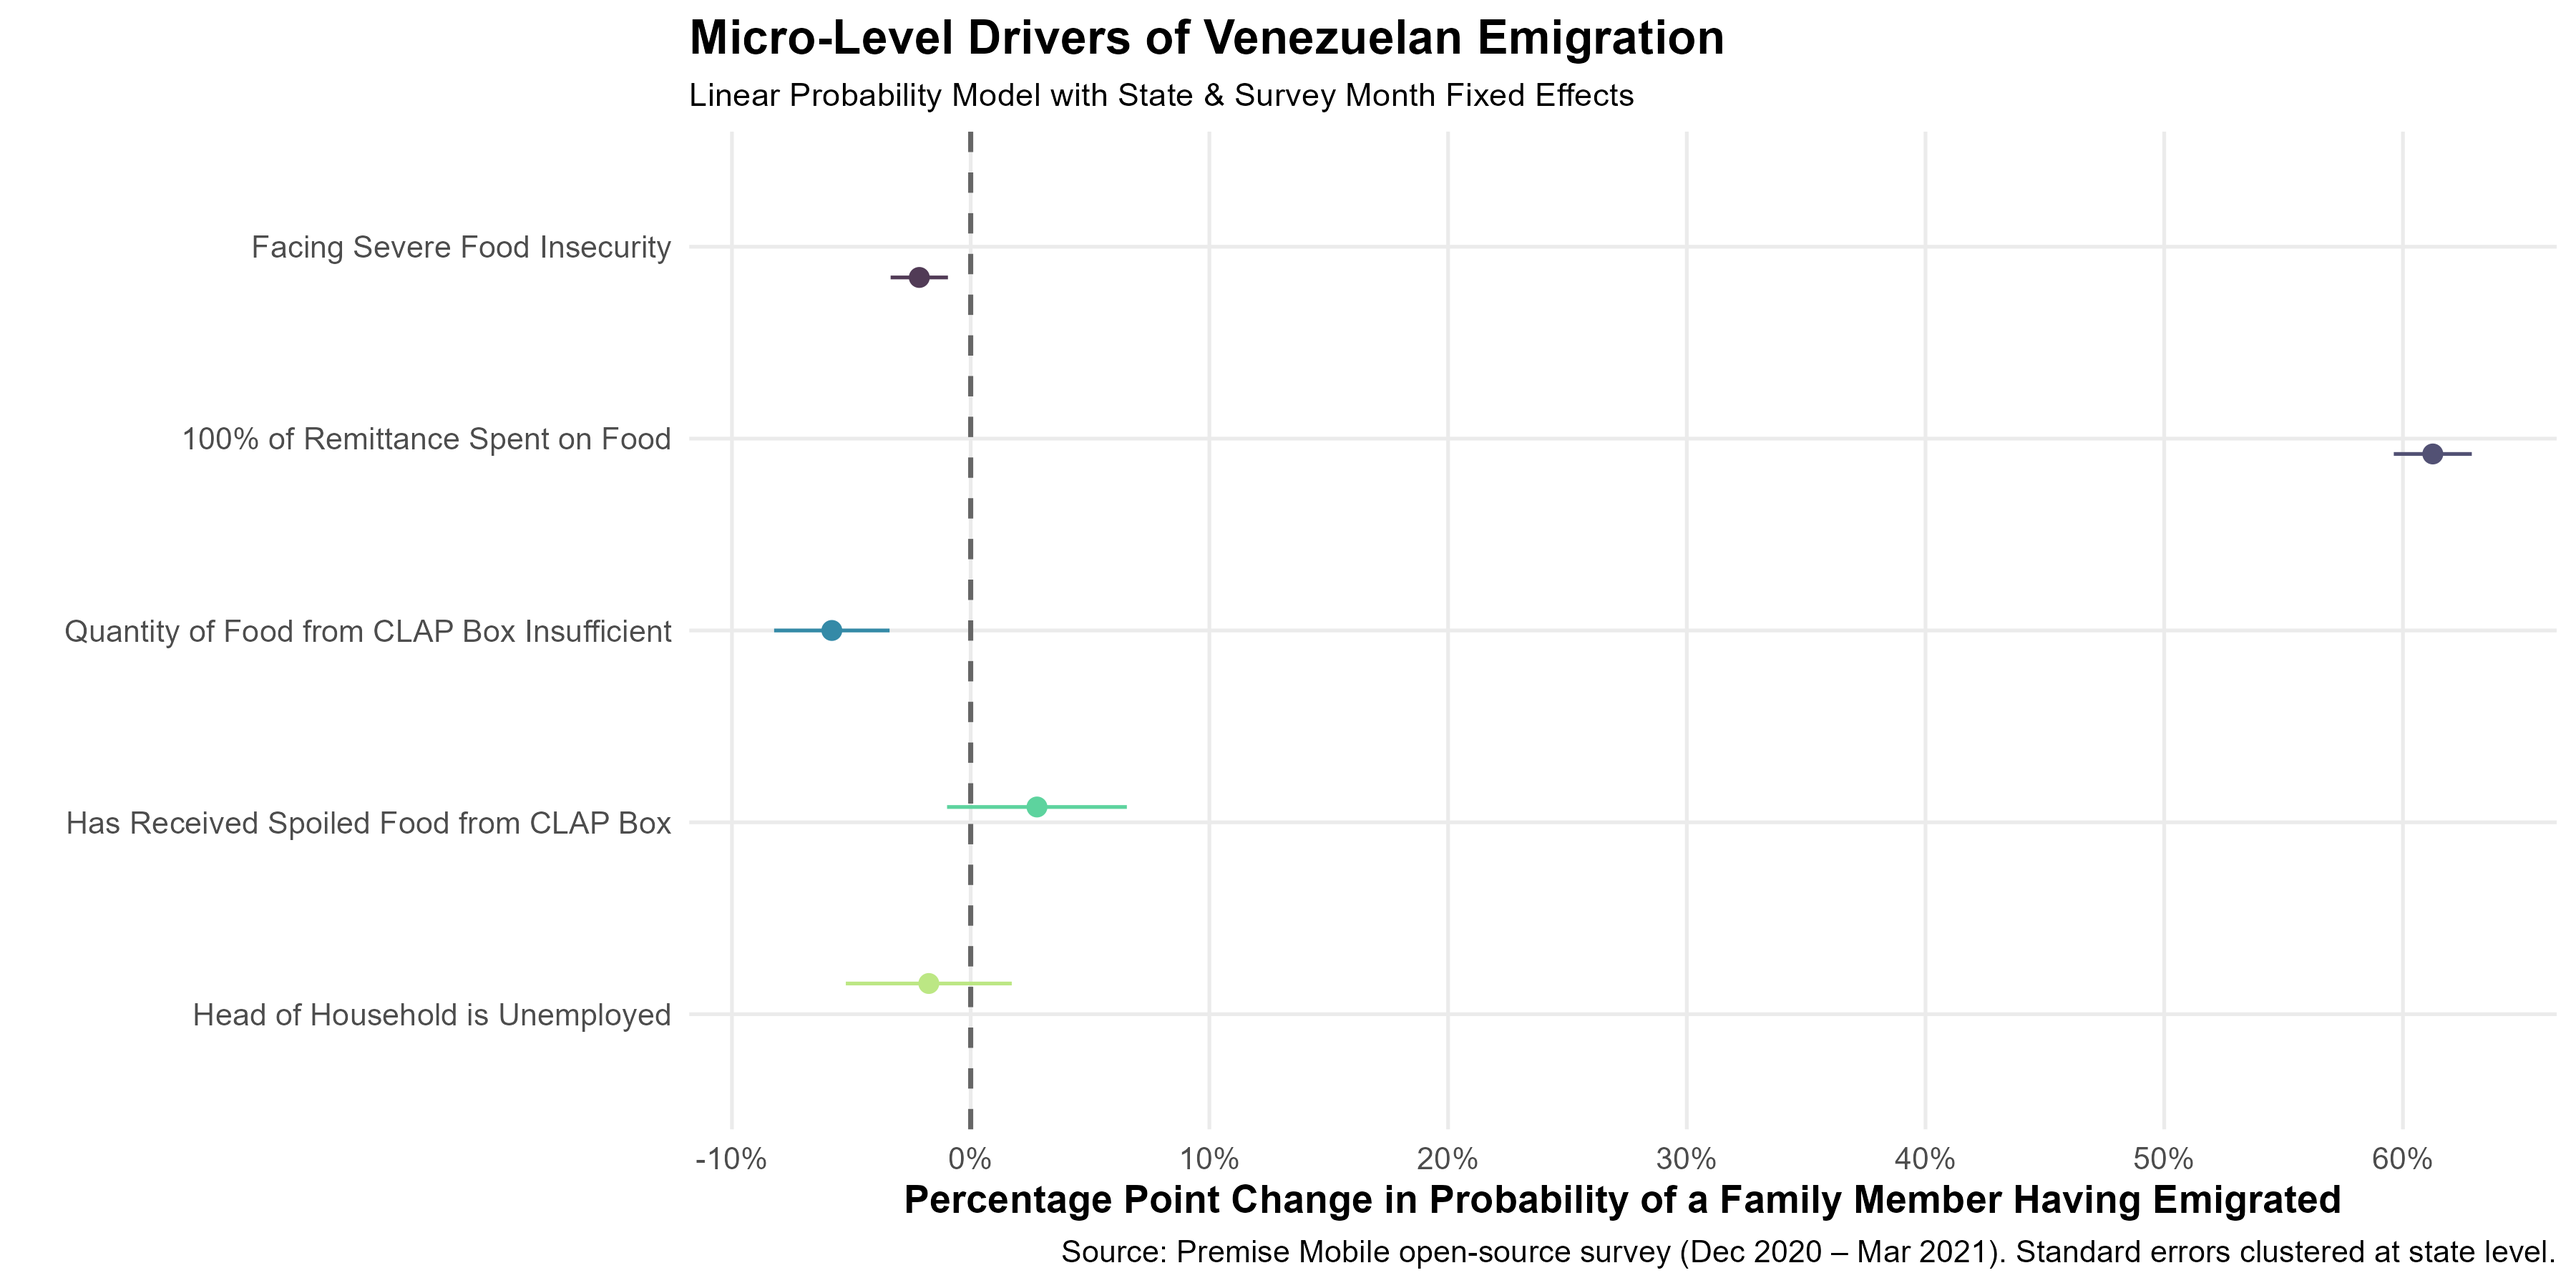
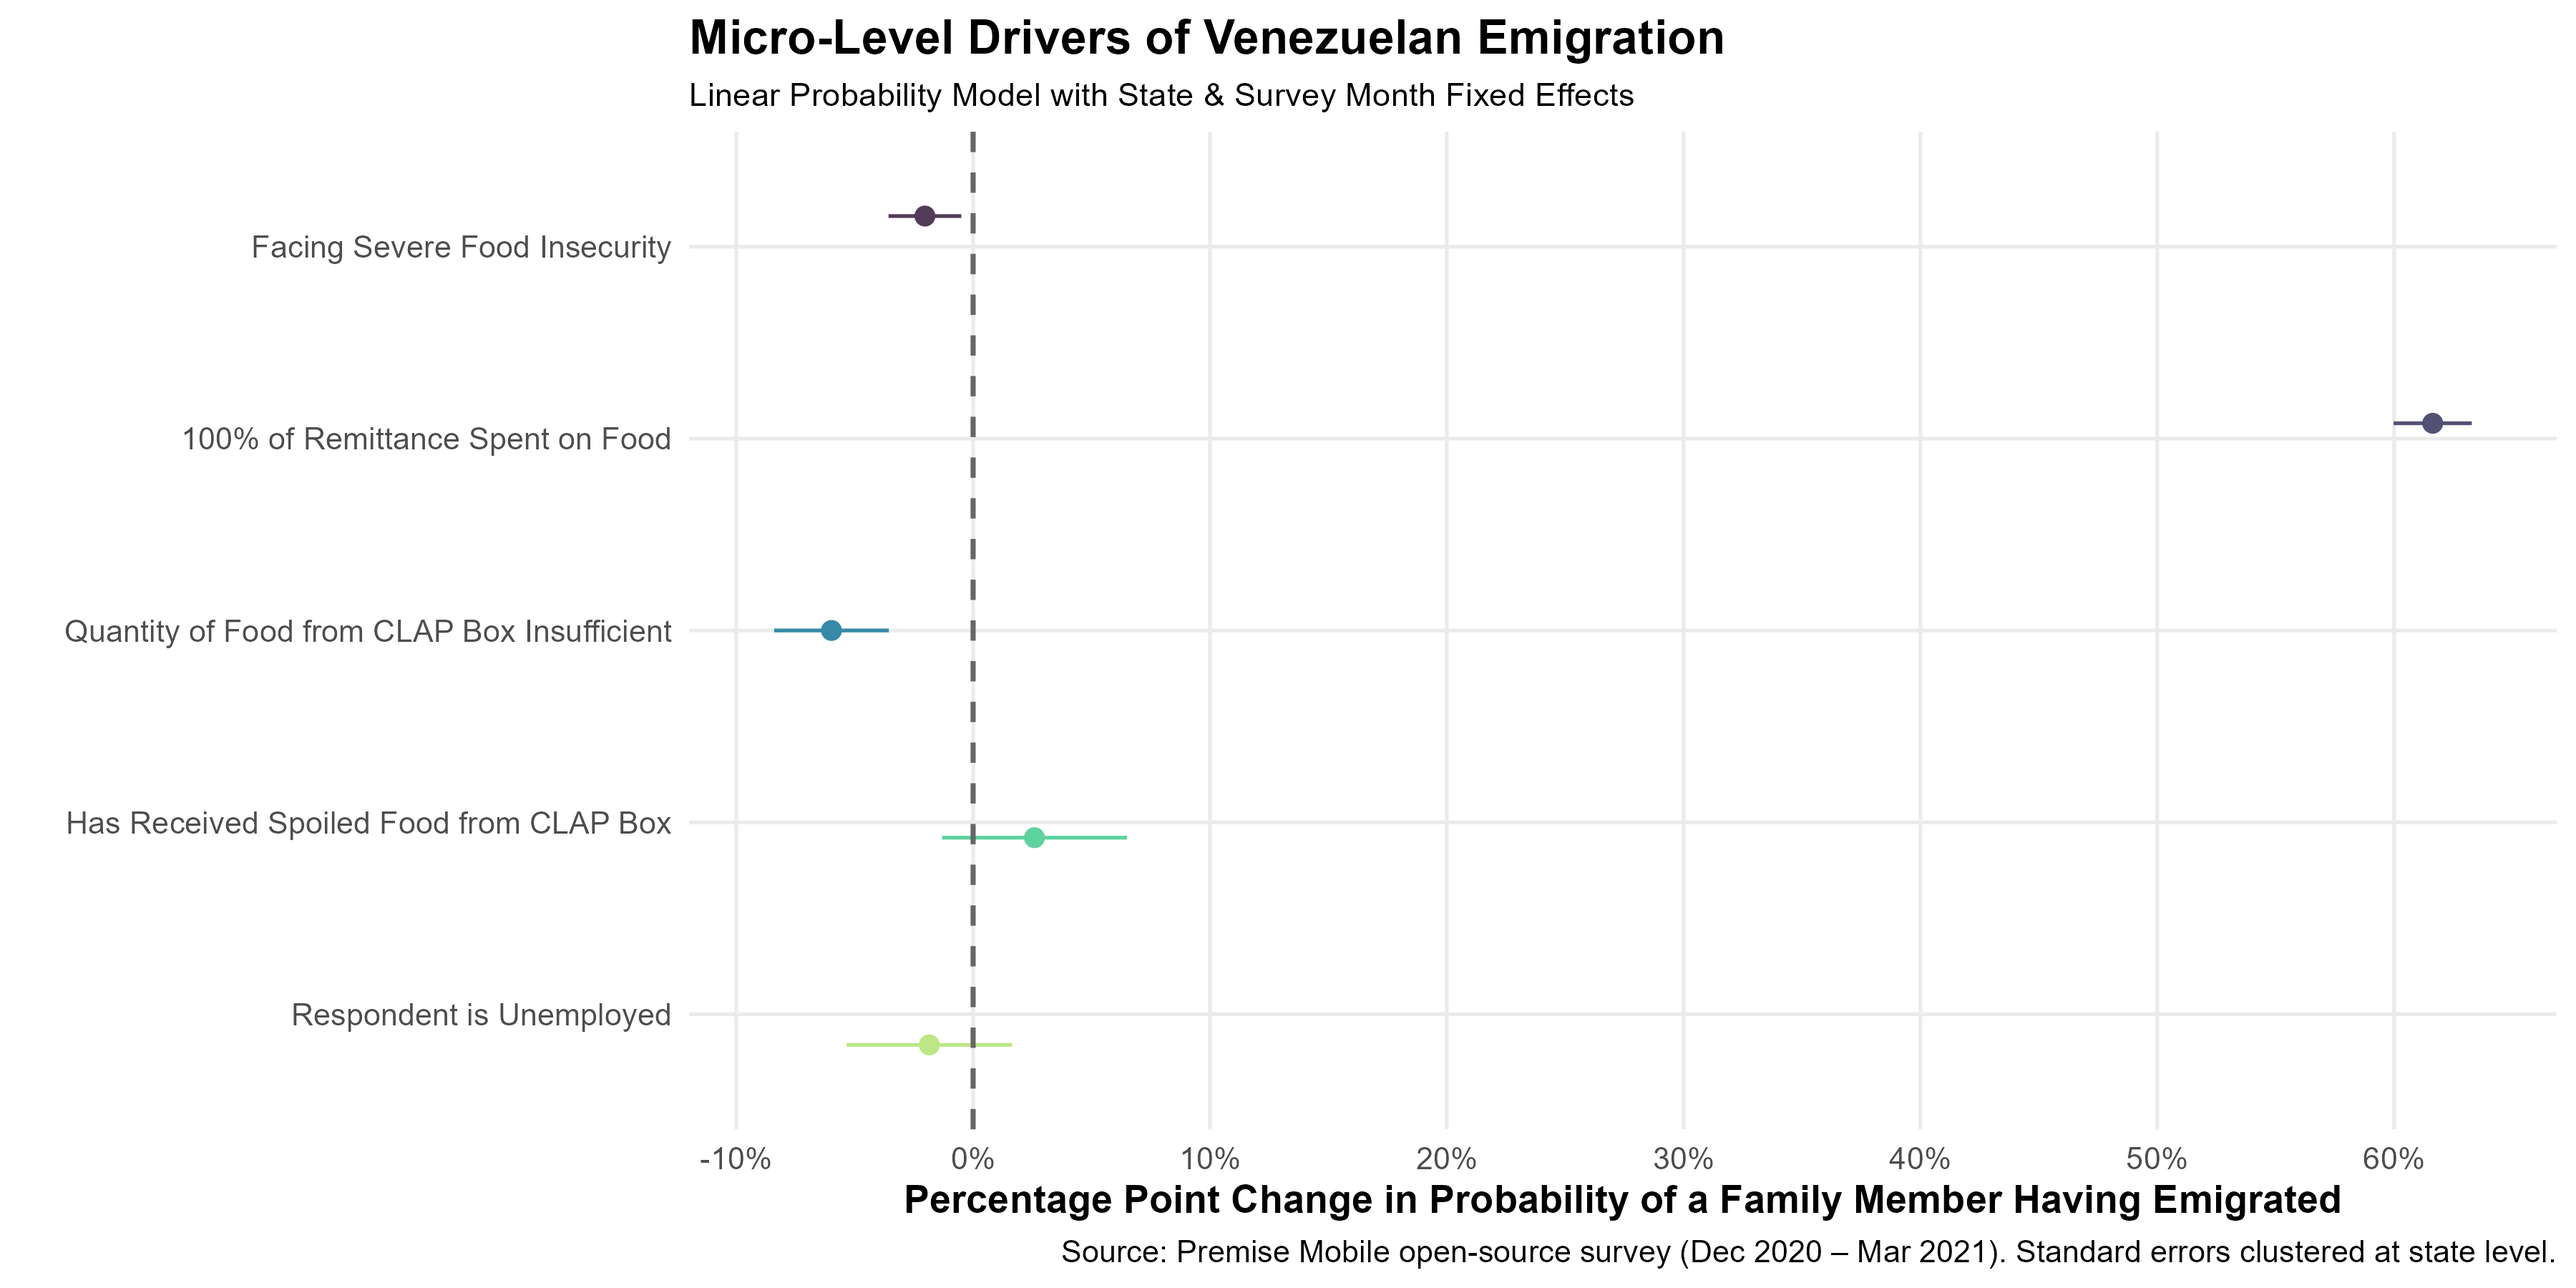
Fix label for is_unemployed

diff --git a/README.md b/README.md
@@ -19,7 +19,7 @@ The analysis pipeline consists of four scripts:
 * `01_clean_worldbank.R`: Cleans World Bank Development Indicators data (annual GDP growth, GDP per capita).
 * `02_clean_unhcr.R`: Cleans UNHCR Refugee Data Finder data across legal status categories (refugees, asylum seekers, other protection, others of concern).
 * `03_merge_visualize.R`: Merges datasets, executes dynamic OLS lag models, and generates visualizations.
-* `04_clean_visualize_livelihood.R`: Cleans Premise Mobile open-source survey data, executes a pooled OLS and LPM with fixed effects, generates visualization.
+* `04_clean_visualize_livelihood.R`: Cleans Premise Mobile open-source survey data, executes a pooled OLS and LPM with fixed effects, and visualizes the LPM.
 
 ------------------------------------------------------------------------------
 
